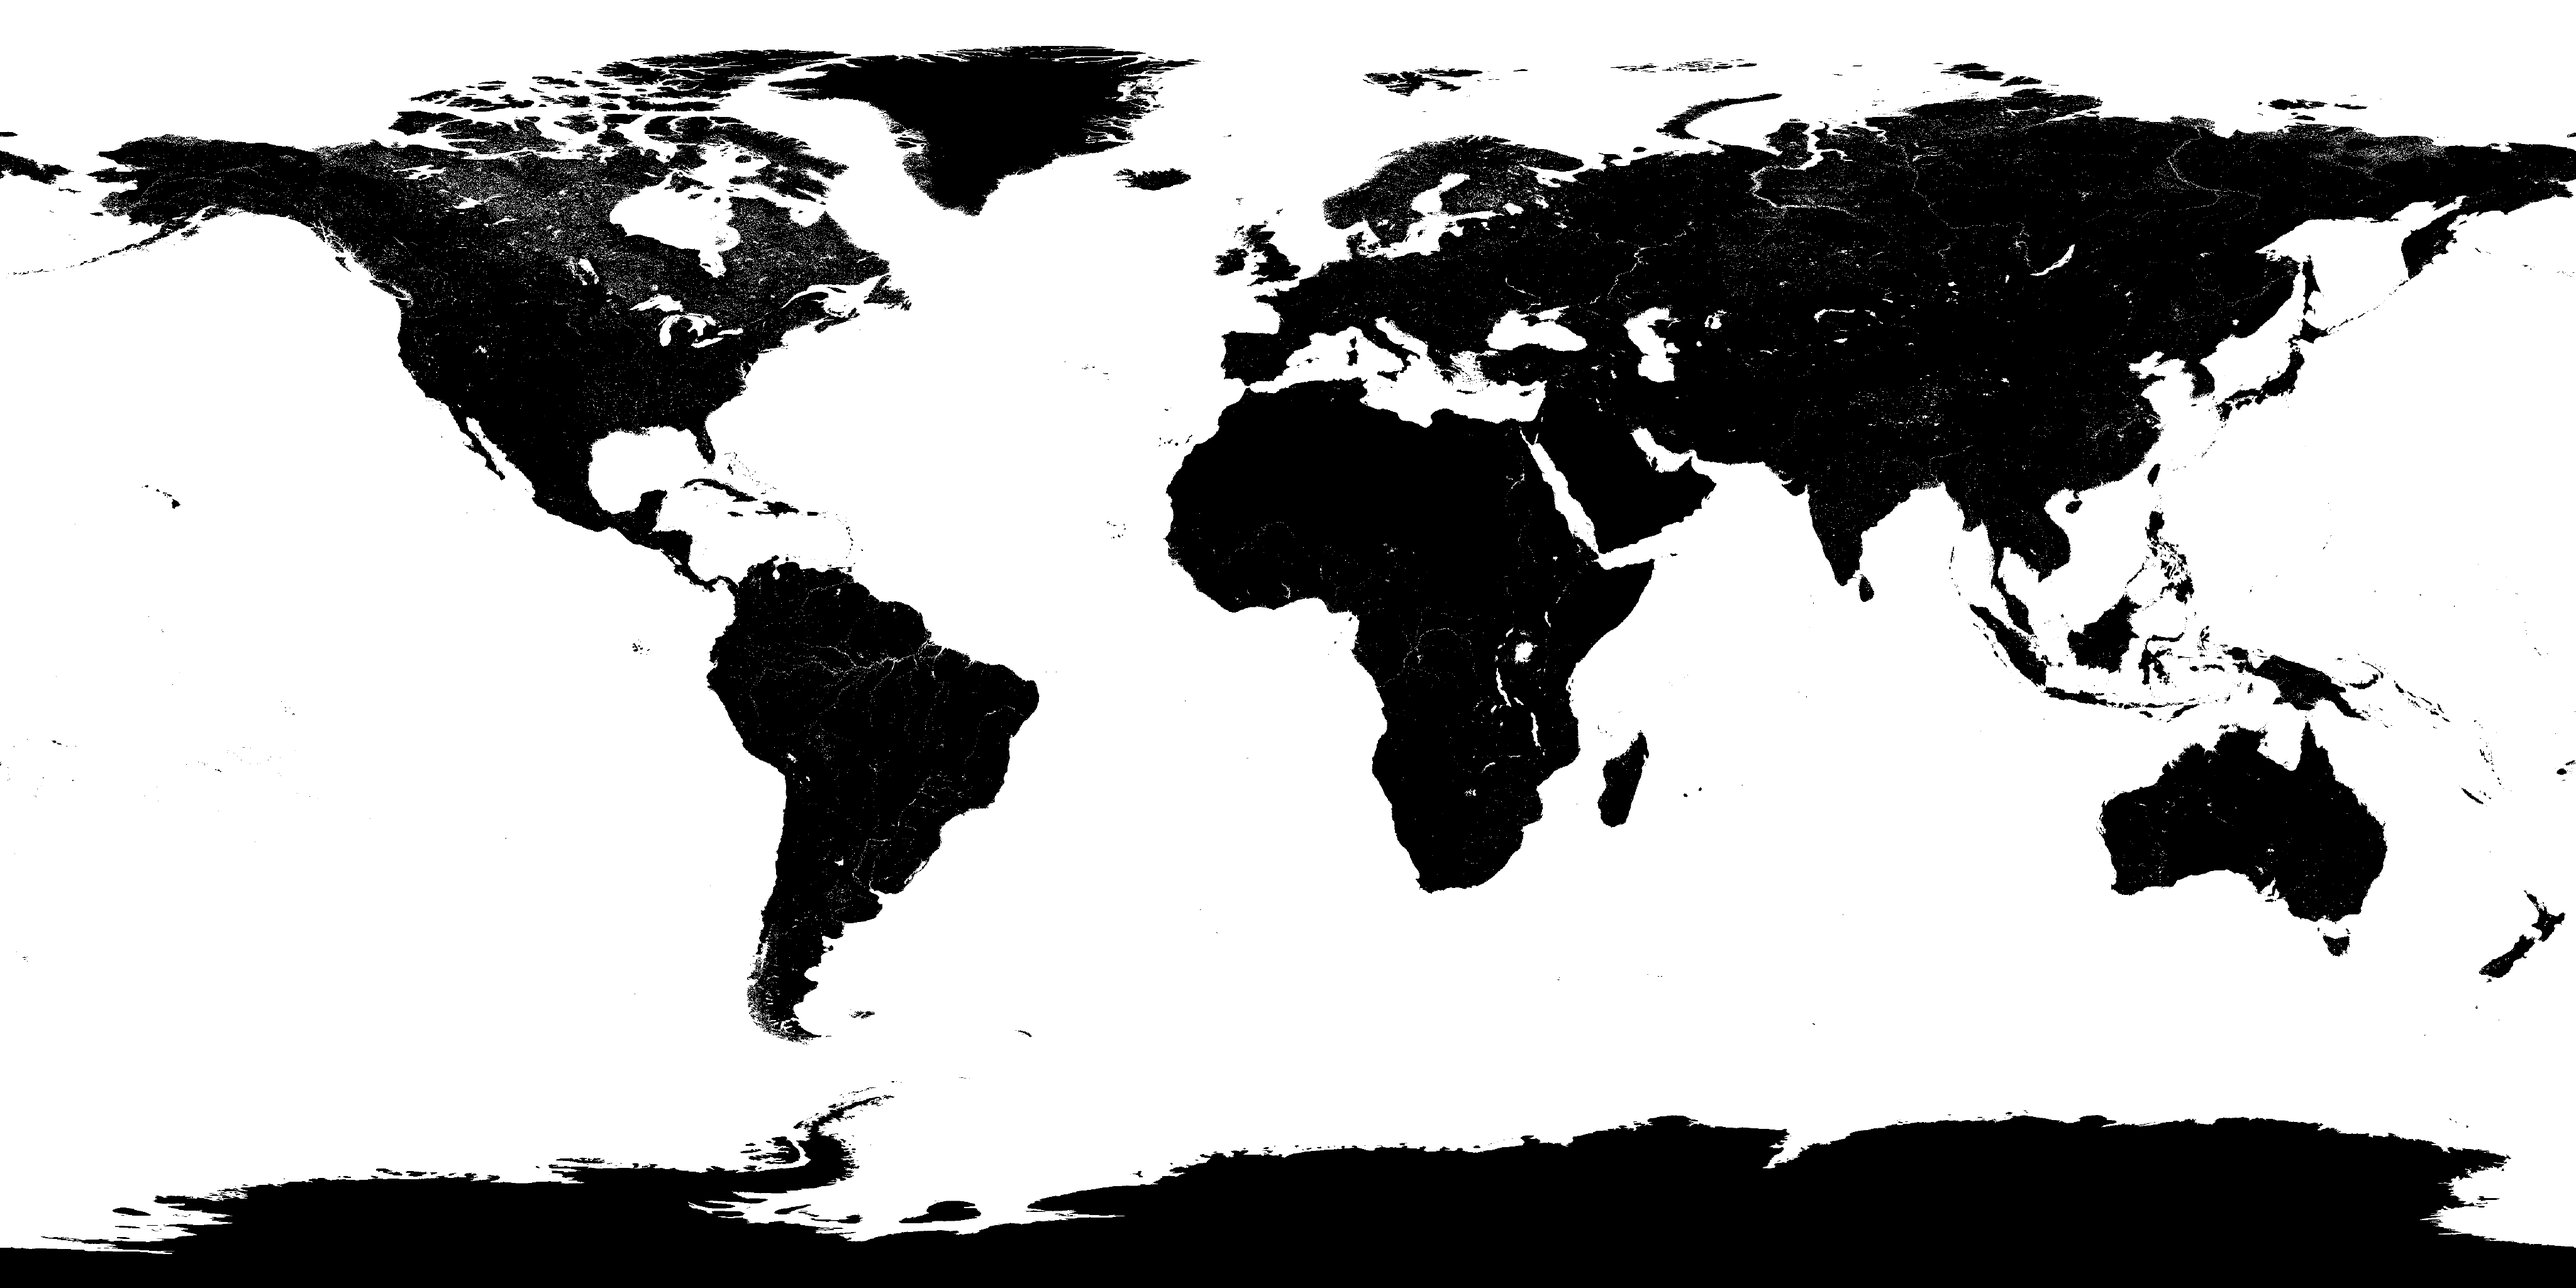
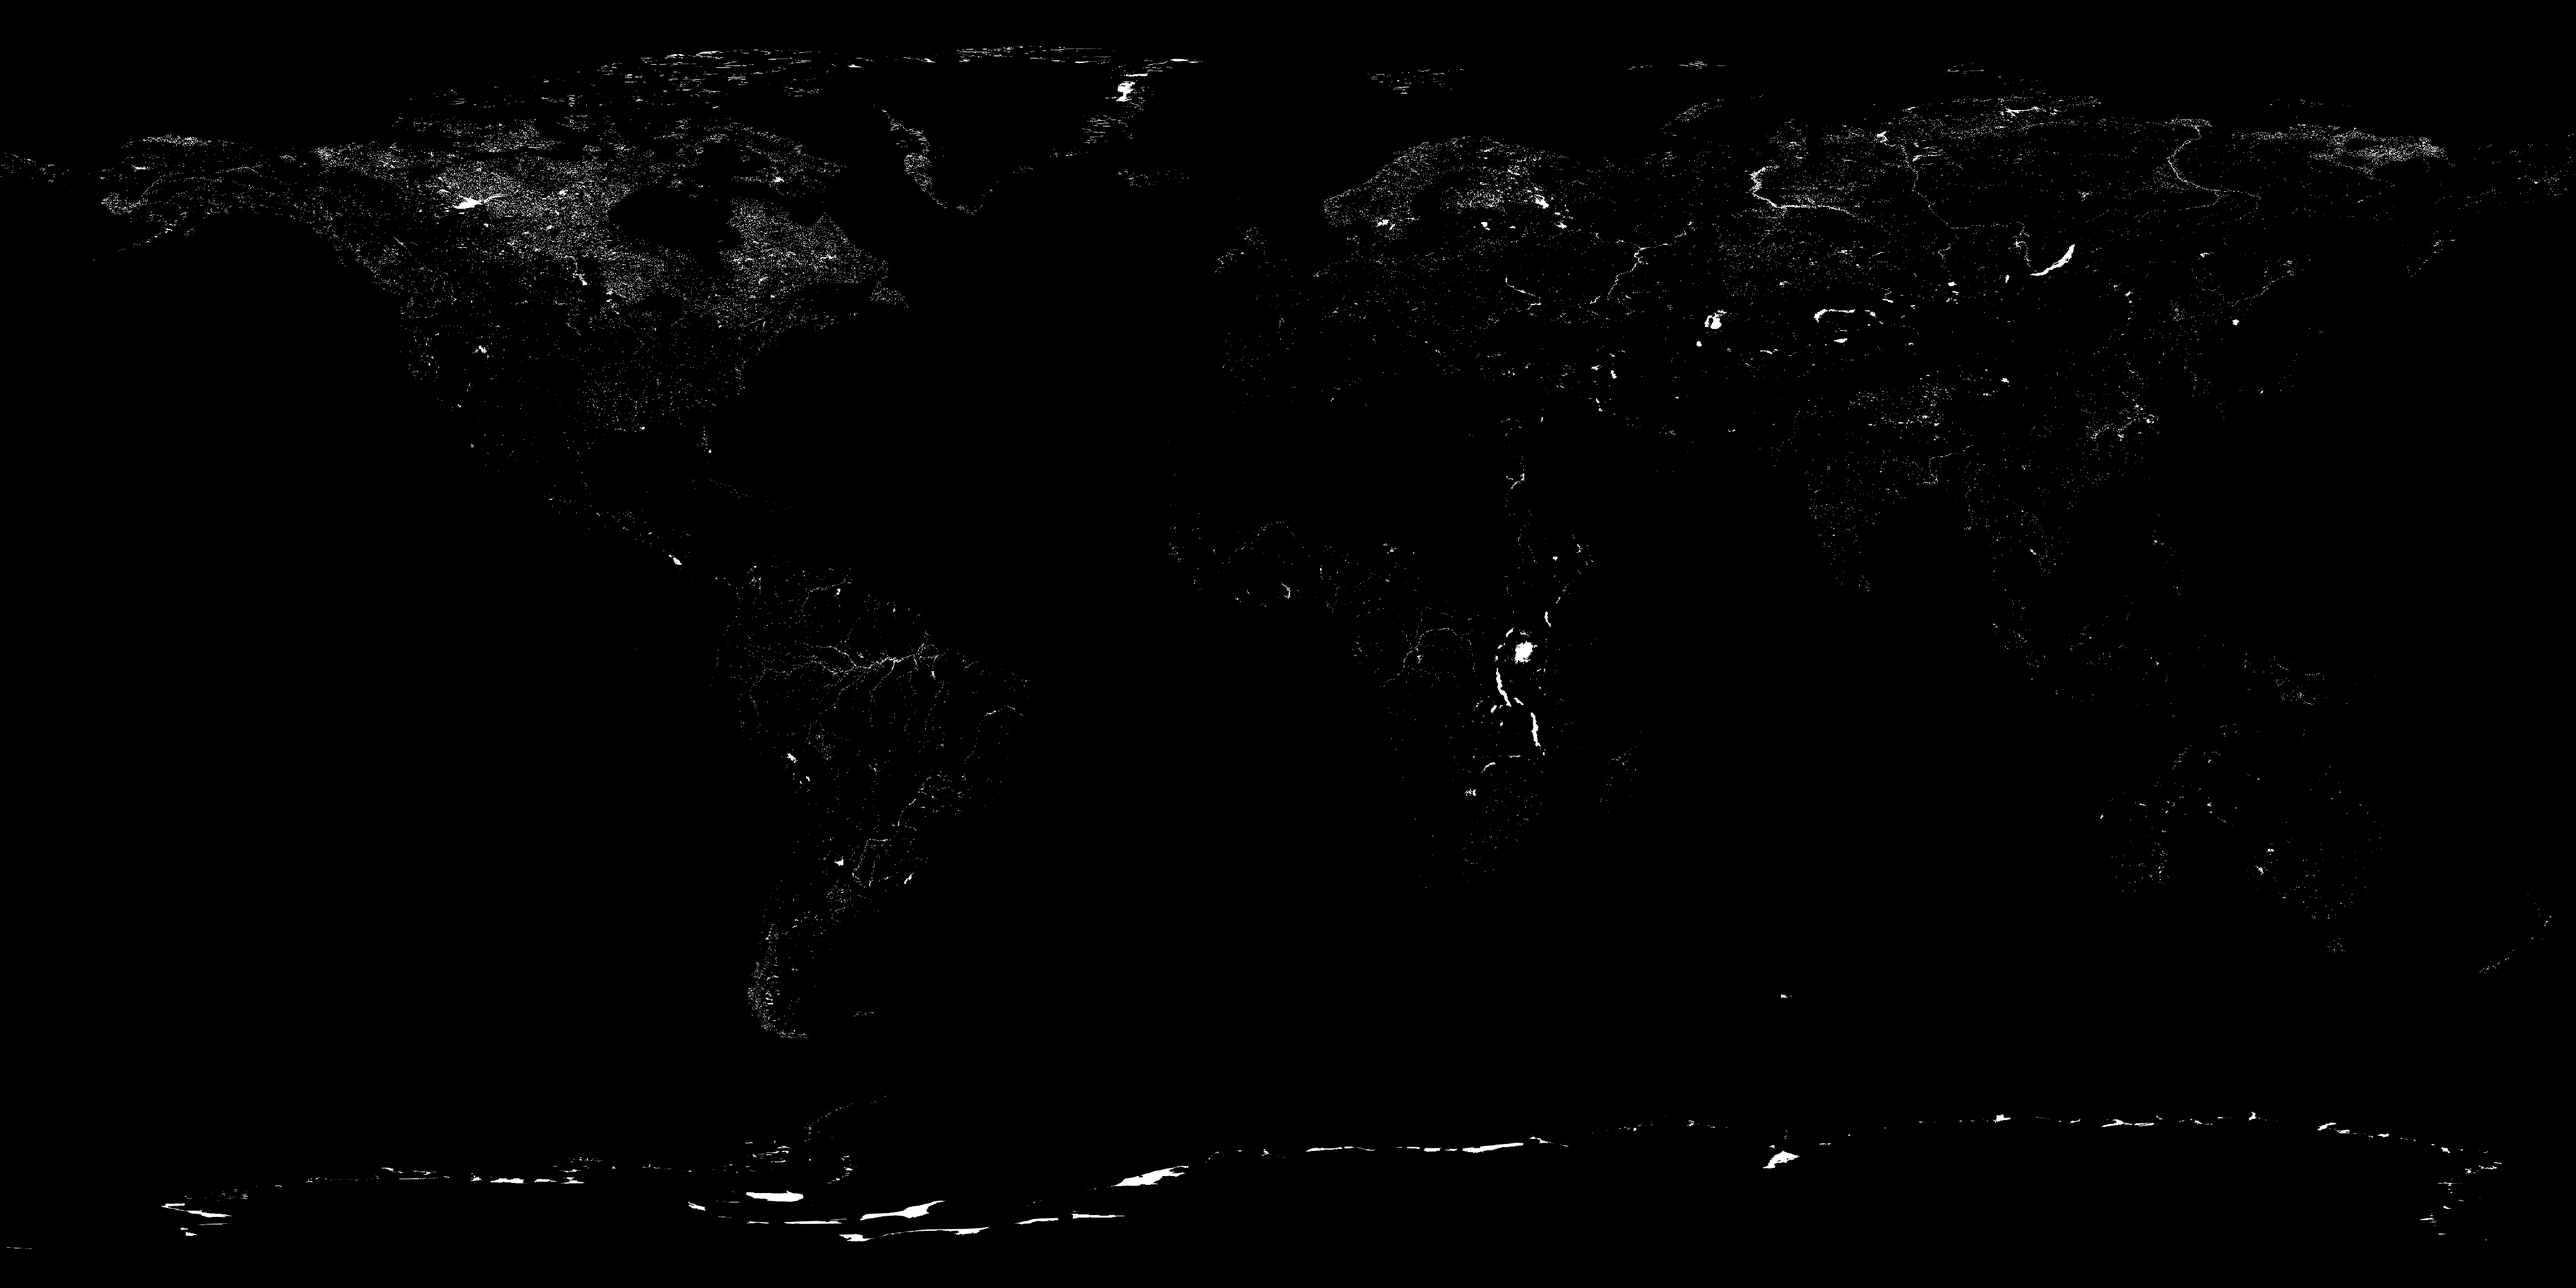
ZapTap: only paint inland water, keep shallow seas' colours
The MODIS water mask also marks the sea, so the last change painted
shallow seas navy too (the turquoise Bahamas banks, reefs, lagoons).
Inland water is now MODIS water inside OpenStreetMap land (also from
GIBS), with the land shrunk 2 px first so the masks' slightly different
coastlines don't leave a navy outline around every coast. Same for the
bundled earth-water.png (tools/earth.py) and the streamed detail tiles.

Claude-Session: https://claude.ai/code/session_01Dbyx4pnGvP6NE12BoMYrYo

diff --git a/zaptap/earth.js b/zaptap/earth.js
@@ -4,14 +4,17 @@
 //
 // Imagery is NASA Blue Marble (public domain): a bundled 4K base texture,
 // plus detail tiles streamed from NASA GIBS when zoomed in. Blue Marble only
-// paints the sea and the largest lakes flat blue; a MODIS water mask for each
-// (bundled, and streamed alongside the detail tiles) marks rivers and other
-// lakes too, so all water gets the same colour.
+// paints the deep sea and the largest lakes flat blue. An inland water mask
+// (bundled, and built from GIBS tiles alongside the detail tiles) marks rivers
+// and other lakes too, so they get the same colour; shallow seas keep theirs.
 (() => {
   "use strict";
 
   const GIBS = "https://gibs.earthdata.nasa.gov/wmts/epsg4326/best/BlueMarble_ShadedRelief/default/500m";
-  const WATER = "https://gibs.earthdata.nasa.gov/wmts/epsg4326/best/MODIS_Water_Mask/default/250m"; // same grid
+  // Same grid as the imagery. Inland water = MODIS water inside OSM land.
+  const WATER = "https://gibs.earthdata.nasa.gov/wmts/epsg4326/best/MODIS_Water_Mask/default/250m";
+  const LAND = "https://gibs.earthdata.nasa.gov/wmts/epsg4326/best/OSM_Land_Mask/default/250m";
+  const COAST_PX = 2; // how far in from the coast inland water starts
   const TILE = 512;
   const MAX_LEVEL = 7; // ~500 m per pixel
   const MIN_DETAIL_LEVEL = 4; // below this the base texture is as sharp
@@ -247,17 +250,35 @@ void main() {
       }
     }
 
-    const tile = document.createElement("canvas");
-    tile.width = tile.height = TILE;
-    const t2 = tile.getContext("2d");
-    function whiten(img) {
-      t2.globalCompositeOperation = "copy";
-      t2.drawImage(img, 0, 0);
-      t2.globalCompositeOperation = "source-in";
-      t2.fillStyle = "#fff";
-      t2.fillRect(0, 0, TILE, TILE);
-      t2.globalCompositeOperation = "source-over";
-      return tile;
+    const layer = (width, height) => {
+      const c = document.createElement("canvas");
+      c.width = width;
+      c.height = height;
+      return [c, c.getContext("2d")];
+    };
+
+    // Inland water from the stitched masks (both opaque where they say
+    // water/land): MODIS water where OSM has land, with the land shrunk a
+    // little first, as the two don't put coastlines in quite the same place
+    // and the sliver would outline every coast. White on black, for the red
+    // channel. Done on the whole stitched area so tile edges don't erode.
+    function inlandWater(water, land) {
+      const { width, height } = water;
+      const [inner, i2] = layer(width, height);
+      i2.drawImage(land, 0, 0);
+      i2.globalCompositeOperation = "destination-in";
+      for (const [dx, dy] of [[-COAST_PX, 0], [COAST_PX, 0], [0, -COAST_PX], [0, COAST_PX]]) i2.drawImage(land, dx, dy);
+      const [out, o2] = layer(width, height);
+      o2.drawImage(water, 0, 0);
+      o2.globalCompositeOperation = "destination-in";
+      o2.drawImage(inner, 0, 0);
+      o2.globalCompositeOperation = "source-in";
+      o2.fillStyle = "#fff";
+      o2.fillRect(0, 0, width, height);
+      o2.globalCompositeOperation = "destination-over";
+      o2.fillStyle = "#000";
+      o2.fillRect(0, 0, width, height);
+      return out;
     }
 
     function loadDetail(key, { z, span, cols, x0, y0, nx, ny }) {
@@ -267,14 +288,8 @@ void main() {
       const c2 = canvas2.getContext("2d");
       c2.fillStyle = "rgb(2,5,20)";
       c2.fillRect(0, 0, canvas2.width, canvas2.height);
-      // The mask tiles are cyan water on transparent land: turn each into
-      // white on black, so the red channel says how much is water.
-      const water = document.createElement("canvas");
-      water.width = canvas2.width;
-      water.height = canvas2.height;
-      const w2 = water.getContext("2d");
-      w2.fillStyle = "#000";
-      w2.fillRect(0, 0, water.width, water.height);
+      const [water, w2] = layer(canvas2.width, canvas2.height);
+      const [land, l2] = layer(canvas2.width, canvas2.height);
       const jobs = [];
       const masks = [];
       for (let j = 0; j < ny; j++) {
@@ -284,7 +299,8 @@ void main() {
             loadImage(`${GIBS}/${z}/${y0 + j}/${col}.jpeg`).then((img) => c2.drawImage(img, i * TILE, j * TILE))
           );
           masks.push(
-            loadImage(`${WATER}/${z}/${y0 + j}/${col}.png`).then((img) => w2.drawImage(whiten(img), i * TILE, j * TILE))
+            loadImage(`${WATER}/${z}/${y0 + j}/${col}.png`).then((img) => w2.drawImage(img, i * TILE, j * TILE)),
+            loadImage(`${LAND}/${z}/${y0 + j}/${col}.png`).then((img) => l2.drawImage(img, i * TILE, j * TILE))
           );
         }
       }
@@ -292,7 +308,7 @@ void main() {
         if (key !== wantedKey) return; // the view moved on
         if (results.slice(0, jobs.length).every((r) => r.status === "rejected")) return;
         upload(1, detailTex, canvas2, RGB);
-        upload(3, detailWaterTex, water, MASK);
+        upload(3, detailWaterTex, inlandWater(water, land), MASK);
         detailBox = [x0 * span - 180, 90 - y0 * span, nx * span, ny * span];
         detailKey = key;
         detailOn = true;

diff --git a/zaptap/tools/earth.py b/zaptap/tools/earth.py
@@ -1,8 +1,14 @@
 """Builds ZapTap's base globe textures from NASA GIBS (public domain):
 
   ../earth.jpg        Blue Marble shaded relief, 4096 x 2048
-  ../earth-water.png  MODIS water mask (lakes, rivers, sea), 4096 x 2048, grey
-                      (255 = water); the globe paints it the colour of the sea
+  ../earth-water.png  inland water (lakes, rivers), 4096 x 2048, grey (255 =
+                      water); the globe paints it the colour of the sea
+
+Inland water is what the MODIS water mask calls water and the OpenStreetMap
+land mask calls land: MODIS alone also marks the sea, which would paint over
+shallow seas like the Bahamas banks. The land is shrunk a little first, as
+the two masks don't draw coastlines in quite the same place and the sliver in
+between would outline every coast.
 
 Both come from zoom level 3 of the GIBS EPSG:4326 grid (10 x 5 tiles of
 512 px, exactly 360 x 180 degrees). Usage: python3 earth.py [<out-dir>]
@@ -14,11 +20,12 @@ import urllib.request
 from concurrent.futures import ThreadPoolExecutor
 from pathlib import Path
 
-from PIL import Image
+from PIL import Image, ImageChops, ImageFilter
 
 GIBS = "https://gibs.earthdata.nasa.gov/wmts/epsg4326/best"
 IMAGERY = GIBS + "/BlueMarble_ShadedRelief/default/500m/3/{y}/{x}.jpeg"
 WATER = GIBS + "/MODIS_Water_Mask/default/250m/3/{y}/{x}.png"
+LAND = GIBS + "/OSM_Land_Mask/default/250m/3/{y}/{x}.png"
 COLS, ROWS, TILE = 10, 5, 512
 SIZE = (4096, 2048)
 
@@ -42,10 +49,13 @@ def main():
     out = Path(sys.argv[1] if len(sys.argv) > 1 else Path(__file__).parent.parent)
     imagery = mosaic(IMAGERY, "RGB", lambda t: t.convert("RGB"))
     imagery.resize(SIZE, Image.LANCZOS).save(out / "earth.jpg", quality=84, optimize=True, progressive=True)
-    # Water is the opaque part of the mask. Averaging when shrinking keeps
-    # rivers thinner than a pixel as partial water instead of losing them.
-    water = mosaic(WATER, "L", lambda t: t.convert("RGBA").getchannel("A"))
-    water.resize(SIZE, Image.BOX).save(out / "earth-water.png", optimize=True)
+    # Each mask is its opaque part. Averaging when shrinking keeps rivers
+    # thinner than a pixel as partial water instead of losing them.
+    alpha = lambda t: t.convert("RGBA").getchannel("A")
+    water = mosaic(WATER, "L", alpha)
+    land = mosaic(LAND, "L", alpha).filter(ImageFilter.MinFilter(5))  # 2 px in from the coast
+    inland = ImageChops.multiply(water, land)
+    inland.resize(SIZE, Image.BOX).save(out / "earth-water.png", optimize=True)
 
 
 if __name__ == "__main__":
